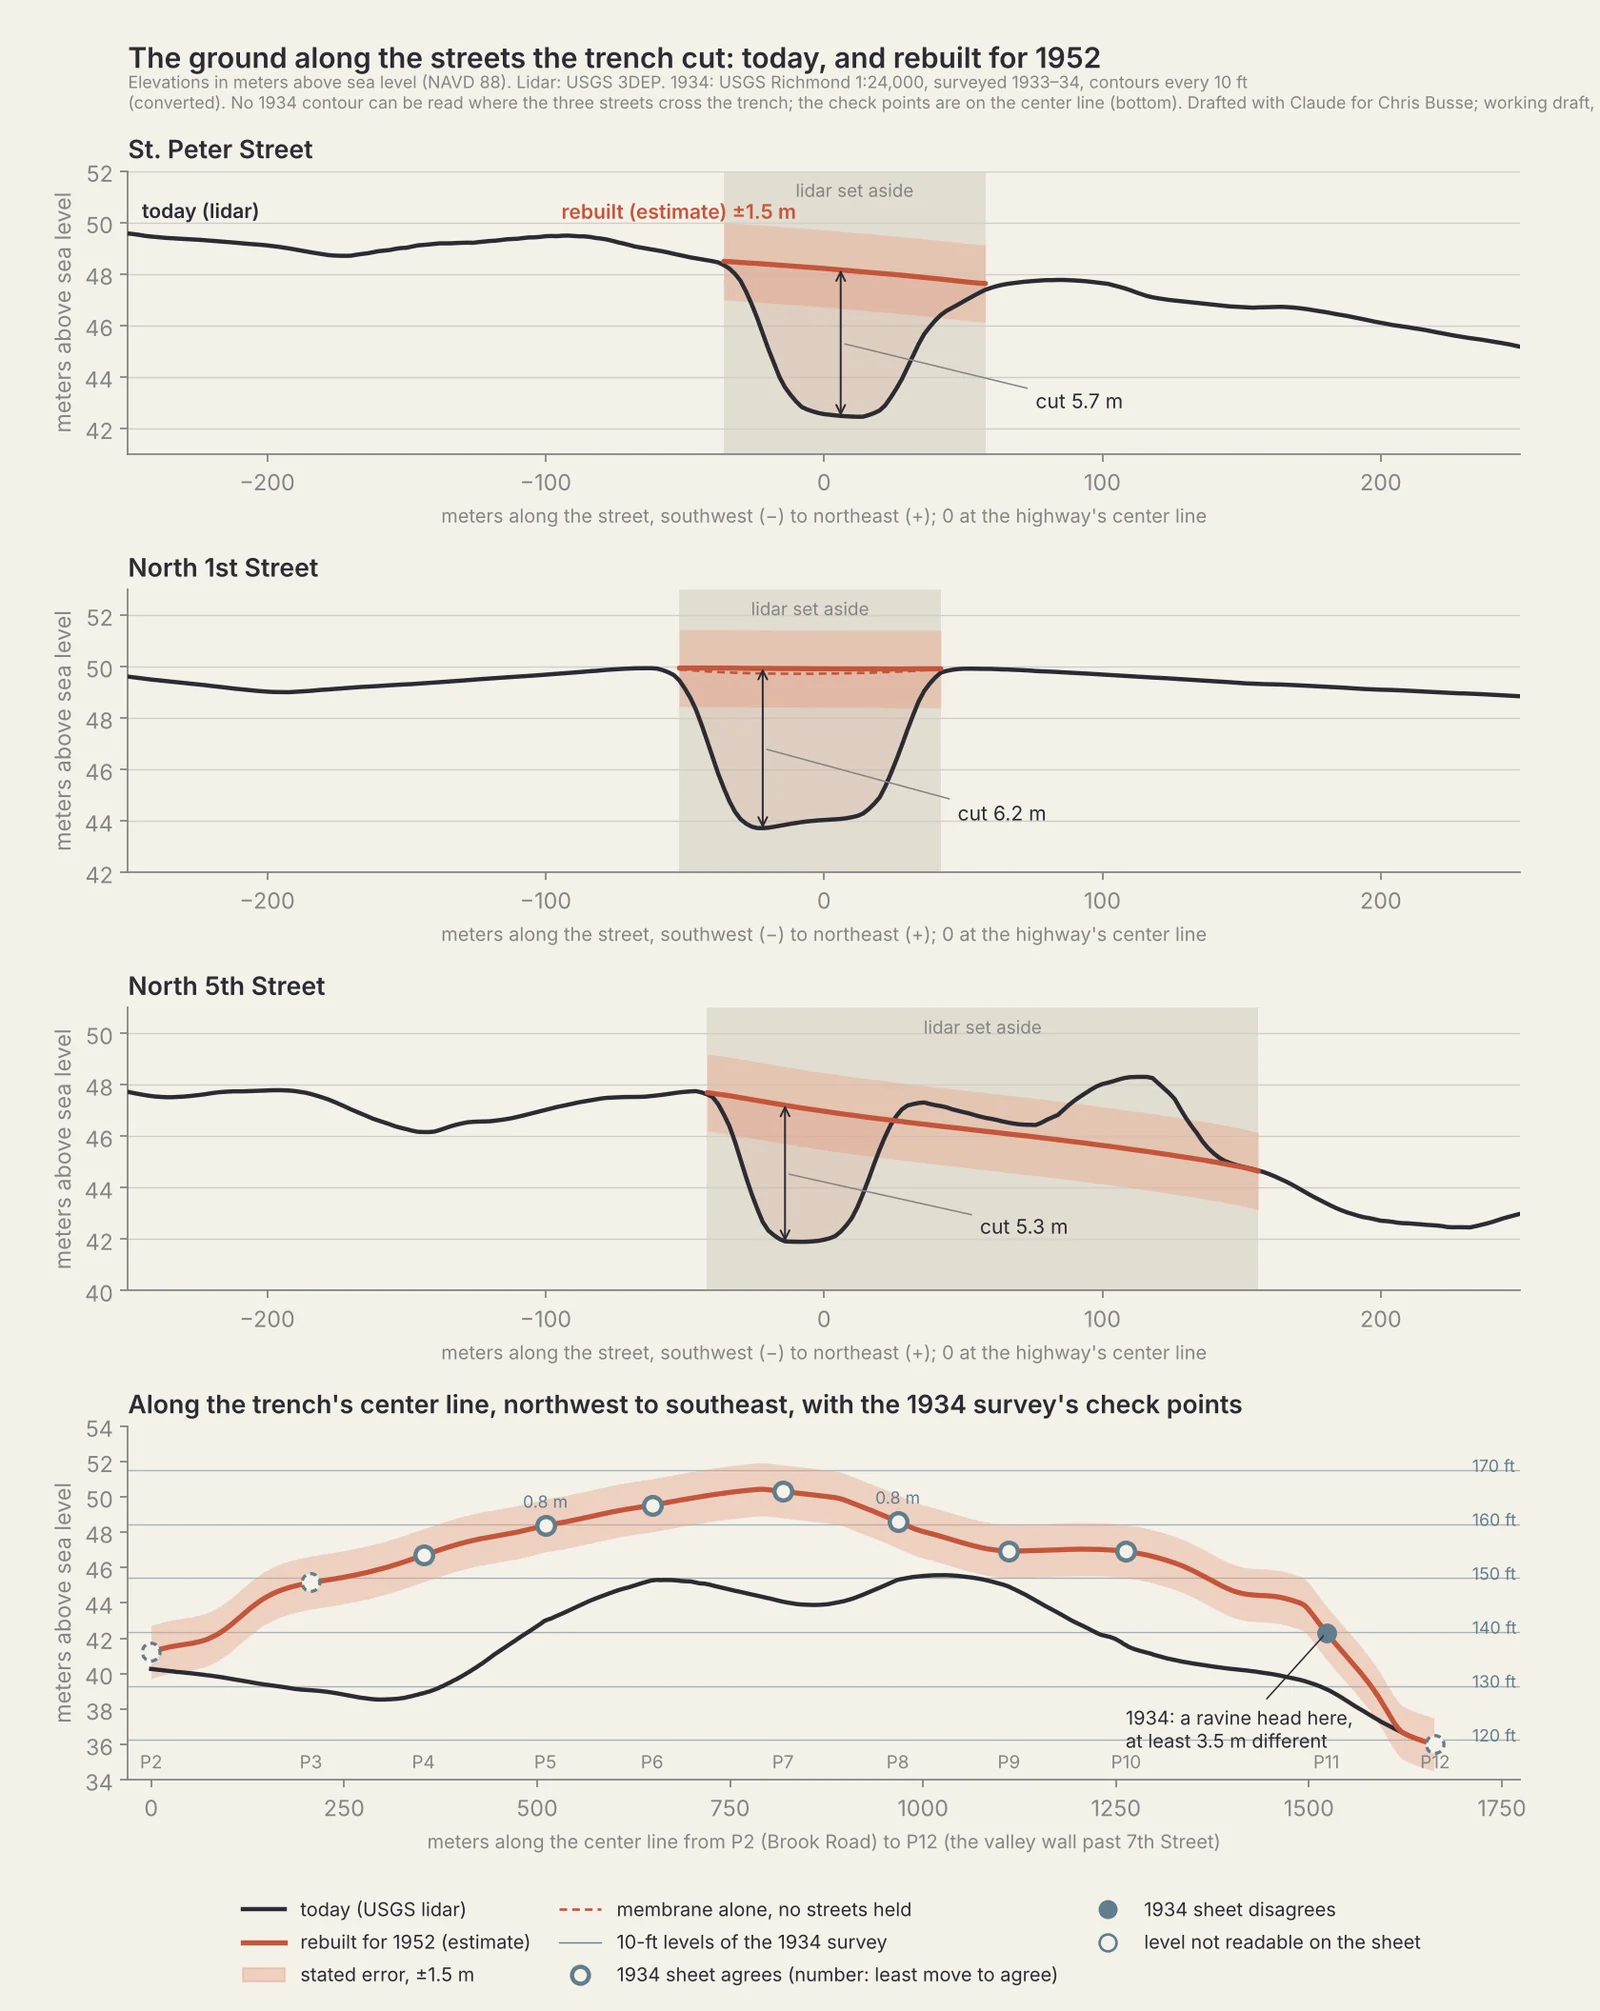
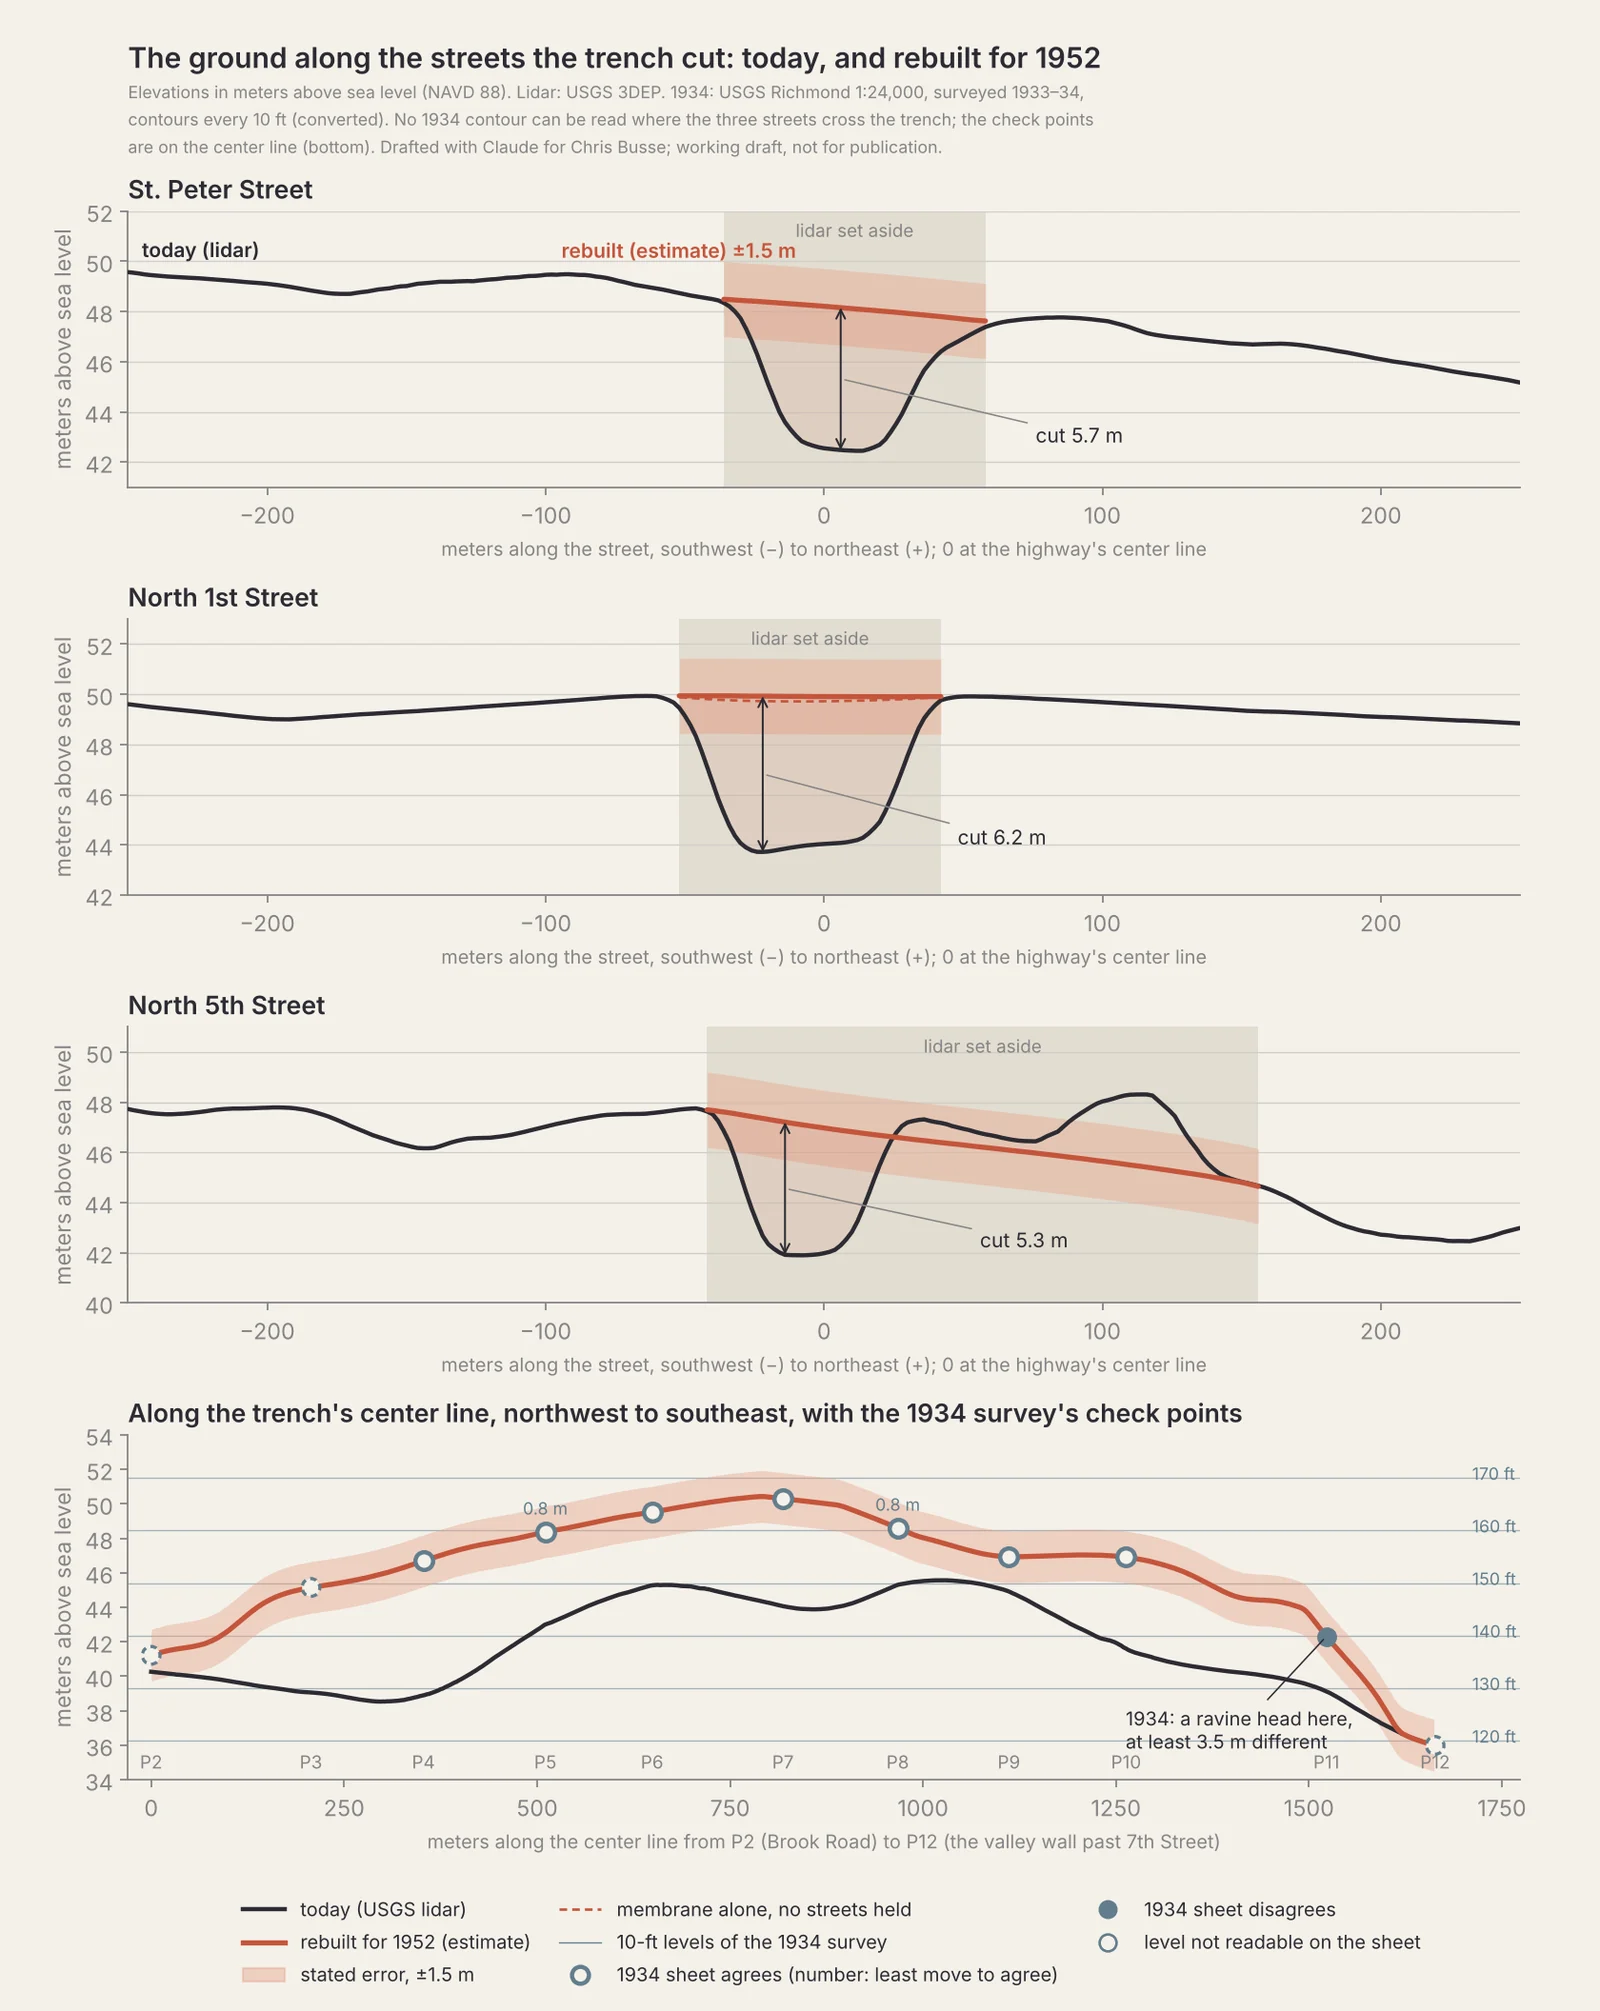
Jackson Ward charts: the count plan draws count.py's own ids (12 m2 floor, correction box out), the profiles' note wrapped, the bank label names where it is
Claude-Session: https://claude.ai/code/session_01BmucdKVM8FF97Ya9PzpVZh

diff --git a/tools/stories/jackson-ward/data.ts b/tools/stories/jackson-ward/data.ts
@@ -74,11 +74,14 @@ const footprint = Object.fromEntries(foot.features.map((ft) => {
   const polys: number[][][][] = ft.geometry.type === 'Polygon' ? [ft.geometry.coordinates] : ft.geometry.coordinates
   return [ft.properties.name, polys.map((poly) => poly.map((ring) => ring.map(v)))]
 }))
-const traced = JSON.parse(await readFile('history/sanborn/jackson-ward-1952.geojson', 'utf8')) as { features: { properties: { sheet: string; area: number; material: string; coverage?: unknown }; geometry: { coordinates: number[][][] } }[] }
-// The edition file also holds each sheet's coverage outline: not a building (count.py skips it too).
-const tracedOut = traced.features.filter((ft) => !ft.properties.coverage).map((ft) => {
+const traced = JSON.parse(await readFile('history/sanborn/jackson-ward-1952.geojson', 'utf8')) as { features: { properties: { id: string; sheet: string; area: number; material: string; coverage?: unknown; notBuilding?: unknown }; geometry: { coordinates: number[][][] } }[] }
+// The edition file also holds each sheet's coverage outline and one correction-table box marked
+// notBuilding: neither is a building, and count.py skips both, as it skips outlines under 12 m2.
+const tracedOut = traced.features.filter((ft) => !ft.properties.coverage && !ft.properties.notBuilding).map((ft) => {
   const ring = ft.geometry.coordinates[0].slice(0, -1).map(v)
-  return { sheet: ft.properties.sheet, area: ft.properties.area, material: ft.properties.material, c: centroid(ring), ring }
+  let a = 0
+  for (let i = 0; i < ring.length; i++) { const p = ring[i], q = ring[(i + 1) % ring.length]; a += p[0] * q[1] - q[0] * p[1] }
+  return { id: ft.properties.id, sheet: ft.properties.sheet, area: ft.properties.area, m2: Math.abs(a) / 2, material: ft.properties.material, c: centroid(ring), ring }
 })
 
 // The twelve check points along the trench's center line (ground.md, check 2).

diff --git a/tools/stories/jackson-ward/charts.py b/tools/stories/jackson-ward/charts.py
@@ -320,7 +320,7 @@ def chart_cut_fill(data, out):
                 bbox=dict(boxstyle='round,pad=0.25', fc=R['paper'], ec='none', alpha=0.9))
     kk = np.nanargmin(np.where(inside, diff, np.nan))
     j2, i2 = divmod(kk, data.nx)
-    ax.annotate(f'highest bank\ntaken down: {-diff[j2, i2]:.1f} m', xy=(data.xs[i2], data.ys[j2]), xytext=(data.xs[i2] - 60, data.ys[j2] + 260),
+    ax.annotate(f'highest bank taken down:\n{-diff[j2, i2]:.1f} m, a ramp at the junction', xy=(data.xs[i2], data.ys[j2]), xytext=(data.xs[i2] - 60, data.ys[j2] + 260),
                 fontsize=9, ha='center', arrowprops=dict(arrowstyle='-', color=R['ink'], lw=0.8), zorder=9,
                 bbox=dict(boxstyle='round,pad=0.25', fc=R['paper'], ec='none', alpha=0.9))
     label(ax, 860, -330, 'Shockoe\nValley', size=9, color=R['muted'])
@@ -367,7 +367,7 @@ def chart_profiles(data, out):
     streets = [('Saint Peter Street', 'St. Peter Street'), ('North 1st Street', 'North 1st Street'), ('North 5th Street', 'North 5th Street')]
     rings_all = data.trench['rings'] + data.junction['rings']
     fig = plt.figure(figsize=(10.5, 13.2))
-    gs = fig.add_gridspec(4, 1, height_ratios=[1, 1, 1, 1.25], hspace=0.45, left=0.08, right=0.95, top=0.915, bottom=0.115)
+    gs = fig.add_gridspec(4, 1, height_ratios=[1, 1, 1, 1.25], hspace=0.45, left=0.08, right=0.95, top=0.895, bottom=0.115)
     fig.suptitle('The ground along the streets the trench cut: today, and rebuilt for 1952', x=0.08, ha='left', fontsize=13.5, fontweight=600)
     for k, (osm, title) in enumerate(streets):
         ax = fig.add_subplot(gs[k])
@@ -460,8 +460,10 @@ def chart_profiles(data, out):
          Line2D([], [], marker='o', ls='', color=R['fill'], ms=8, label='1934 sheet disagrees'),
          Line2D([], [], marker='o', ls='', mfc=R['paper'], mec=R['fill'], mew=1.2, ms=8, label='level not readable on the sheet')]
     fig.legend(handles=h, loc='lower center', ncol=3, bbox_to_anchor=(0.52, 0.004), fontsize=9, handlelength=2.2, columnspacing=1.5)
-    fig.text(0.08, 0.946, 'Elevations in meters above sea level (NAVD 88). Lidar: USGS 3DEP. 1934: USGS Richmond 1:24,000, surveyed 1933–34, contours every 10 ft\n(converted). No 1934 contour can be read where the three streets cross the trench; the check points are on the center line (bottom). ' + CREDIT,
-             fontsize=8, color=R['muted'], ha='left')
+    fig.text(0.08, 0.94, 'Elevations in meters above sea level (NAVD 88). Lidar: USGS 3DEP. 1934: USGS Richmond 1:24,000, surveyed 1933–34,\n'
+             'contours every 10 ft (converted). No 1934 contour can be read where the three streets cross the trench; the check points\n'
+             'are on the center line (bottom). ' + CREDIT,
+             fontsize=8, color=R['muted'], ha='left', va='center', linespacing=1.35)
     save(fig, out, 'profiles')
 
 
@@ -814,16 +816,22 @@ def chart_count(data, out):
         q = np.asarray(q, dtype=float) - ctr
         return np.column_stack([q[..., 0] * ca - q[..., 1] * sa, q[..., 0] * sa + q[..., 1] * ca]) if q.ndim == 2 else np.array([q[0] * ca - q[1] * sa, q[0] * sa + q[1] * ca])
 
+    # Which buildings count is read from count.py's own list (counted-ids.json), so the plan shows
+    # exactly what the count counts, by the same rule: a point inside the outline in the polygon,
+    # no outline under 12 m2 (the map draws nothing smaller), the correction-table box left out.
+    ids = json.load(open(os.path.join(ROOT, 'tools/sanborn/jw/counted-ids.json')))
+    in_paved, in_corr = set(ids['paved']), set(ids['corridor'])
     groups = {'quiet': [], 'near': [], 'pick': []}
     n_in = {'paved': 0, 'corridor': 0}
     for b_ in data.d['traced']:
-        g = SPoly(b_['ring']).buffer(0)
-        q = g.representative_point()        # count.py's rule: a point inside the outline
-        in_p = any(p.contains(q) for p in paved)
-        in_c = any(p.contains(q) for p in corridor)
+        if b_['id'] not in in_paved and b_['id'] not in in_corr and b_['m2'] < 12:
+            continue
+        in_p = b_['id'] in in_paved
+        in_c = in_p or b_['id'] in in_corr
         n_in['paved'] += in_p
         n_in['corridor'] += in_c
         groups['pick' if in_p else 'near' if in_c else 'quiet'].append(T(b_['ring']))
+    assert (n_in['paved'], n_in['corridor']) == (c['paved']['buildings'], c['corridor']['buildings']), (n_in, 'counted-ids.json and counts.json disagree: re-run count.py')
     tp = T(pts)
     bounds = (tp[:, 0].min() - 40, tp[:, 0].max() + 40, tp[:, 1].min() - 150, tp[:, 1].max() + 150)
     fig = plt.figure(figsize=(13, 7.6))
@@ -856,8 +864,8 @@ def chart_count(data, out):
     fig.text(0.015, 0.31, 'Buildings on the 1952 Sanborn sheets within this polygon', fontsize=11.5, fontweight=600, va='top')
     fig.text(0.015, 0.265, f"Paved polygon (today's roadway and ramps): {c['paved']['buildings']}", fontsize=10.5, va='top')
     fig.text(0.015, 0.23, f"Corridor (the paved polygon plus 15 m each side): {c['corridor']['buildings']}", fontsize=10.5, va='top')
-    fig.text(0.015, 0.18, 'A count of outlines on a map. Sheds and porches over 6 m² count;\nan apartment house is one. Not homes, families or people.\n'
-                          'The polygon is today\'s footprint, standing in for the 1958\nright-of-way, which has not been seen.', fontsize=9.5, va='top')
+    fig.text(0.015, 0.18, 'A count of outlines on a map. Outlines under 12 m² (privies and small\nsheds, which the map does not draw) are not counted; an apartment\nhouse is one. Not homes, families or people. '
+                          'The polygon is\ntoday\'s footprint, standing in for the 1958 right-of-way,\nwhich has not been seen.', fontsize=9.5, va='top')
     bx = fig.add_axes([0.55, 0.075, 0.40, 0.185])
     sheets = sorted(c['corridor']['sheets'], key=int)
     xs = np.arange(len(sheets))
@@ -879,9 +887,7 @@ def chart_count(data, out):
          Patch(color=R['quiet'], label='every other 1952 outline'),
          Line2D([], [], color=R['line'], lw=1.3, label='paved polygon'), Line2D([], [], color=R['ink'], lw=1.0, ls=(0, (4, 2.5)), label='corridor polygon')]
     fig.legend(handles=h, loc='upper left', ncol=5, bbox_to_anchor=(0.015, 0.355), fontsize=9, handlelength=1.6, columnspacing=1.2)
-    note = '' if (n_in['paved'], n_in['corridor']) == (c['paved']['buildings'], c['corridor']['buildings']) else \
-        f" This plan's own test, in view meters, finds {n_in['paved']} and {n_in['corridor']}: outlines that straddle a polygon's edge can fall either way."
-    footer(fig, 'Counts: tools/sanborn/jw/counts.json (count.py).' + note + ' Sanborn, Richmond 1952 vol. 3 (Library of Congress, public domain); streets: OpenStreetMap (ODbL).')
+    footer(fig, 'Counts: tools/sanborn/jw/counts.json and counted-ids.json (count.py); this plan draws the same ids. Sanborn, Richmond 1952 vol. 3 (Library of Congress, public domain); streets: OpenStreetMap (ODbL).')
     save(fig, out, 'count')
 
 
